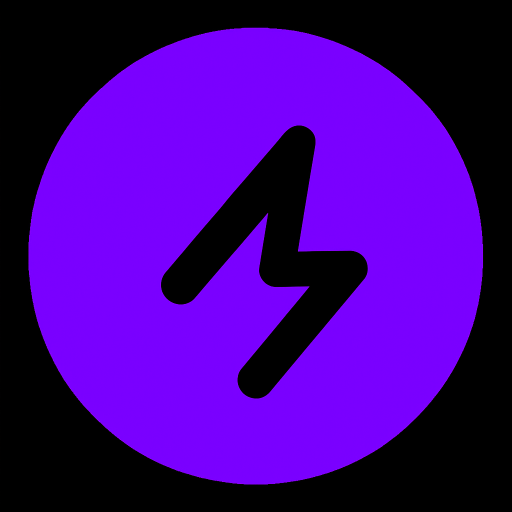
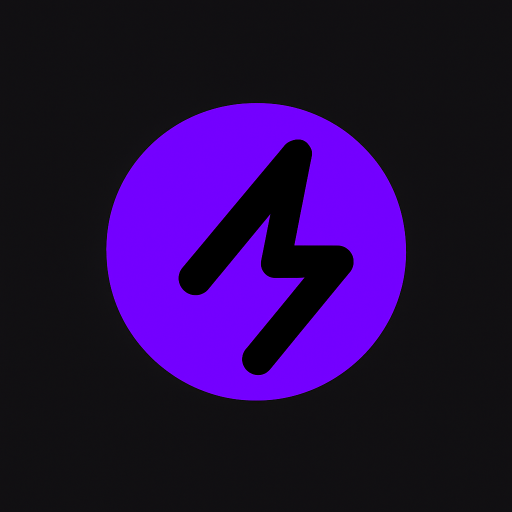
almost done

diff --git a/frontend/src/layout/components/PlaybackControls.tsx b/frontend/src/layout/components/PlaybackControls.tsx
@@ -24,6 +24,7 @@ import {
   DropdownMenuItem,
   DropdownMenuTrigger,
 } from "@/components/ui/dropdown-menu";
+import { motion, AnimatePresence } from "framer-motion";
 
 const formatTime = (seconds: number) => {
   if (!seconds || isNaN(seconds)) return "0:00";
@@ -187,8 +188,19 @@ export const PlaybackControls = () => {
         flex flex-col sm:flex-row sm:justify-between items-center
         max-w-[1800px] mx-auto w-full`}
     >
+
+      <AnimatePresence initial={false}>
       {/* MOBILE MINI PLAYER */}
       {!isExpanded && currentSong && (
+        <motion.div
+        key="mini"
+        initial={{ opacity: 0, y: 40 }}
+        animate={{ opacity: 1, y: 0 }}
+        exit={{ opacity: 0, y: 40 }}
+        transition={{ duration: 0.3 }}
+        className="relative flex sm:hidden items-center gap-3 w-full h-16 cursor-pointer rounded-md overflow-hidden"
+        onClick={toggleExpand}
+      >
         <div
           className="relative flex sm:hidden items-center gap-3 w-full h-16 cursor-pointer rounded-md overflow-hidden"
           onClick={toggleExpand}
@@ -224,14 +236,14 @@ export const PlaybackControls = () => {
                   e.stopPropagation();
                   playPrevious();
                 }}
-                className="text-zinc-300 hover:text-white"
+                className="text-zinc-300 lg:hover:text-white"
               >
                 <SkipBack className="h-5 w-5" />
               </Button>
 
               <Button
                 size="icon"
-                className="bg-white hover:bg-white/80 text-black rounded-full h-9 w-9"
+                className="bg-white lg:hover:bg-white/80 text-black rounded-full h-9 w-9"
                 onClick={(e) => {
                   e.stopPropagation();
                   togglePlay();
@@ -247,17 +259,26 @@ export const PlaybackControls = () => {
                   e.stopPropagation();
                   playNext();
                 }}
-                className="text-zinc-300 hover:text-white"
+                className="text-zinc-300 lg:hover:text-white"
               >
                 <SkipForward className="h-5 w-5" />
               </Button>
             </div>
           </div>
         </div>
+        </motion.div>
       )}
 
       {/* MOBILE EXPANDED VIEW */}
       {isExpanded && currentSong && (
+        <motion.div
+        key="expanded"
+        initial={{ opacity: 0, y: "100%" }}
+        animate={{ opacity: 1, y: 0 }}
+        exit={{ opacity: 0, y: "100%" }}
+        transition={{ duration: 0.40, ease: "easeInOut" }}
+        className="sm:hidden relative flex flex-col h-screen w-full overflow-hidden pt-safe"
+      >
         <div className="sm:hidden relative flex flex-col h-full w-full overflow-hidden">
           <div
             className="absolute inset-0 bg-cover bg-center blur-2xl opacity-30"
@@ -266,11 +287,16 @@ export const PlaybackControls = () => {
           <div className="absolute inset-0 bg-gradient-to-t from-black via-zinc-900/80 to-transparent" />
 
           <div className="relative flex flex-col h-full px-6 py-4 text-white">
-            <div className="flex justify-start">
-              <Button size="icon" variant="ghost" className="text-zinc-300 hover:text-white" onClick={toggleExpand}>
-                <ChevronDown className="h-7 w-7 mt-1" />
-              </Button>
-            </div>
+              <div className="flex justify-start">
+                <Button
+                  size="icon"
+                  variant="ghost"
+                  className="text-zinc-300 sm:hover:text-white"
+                  onClick={toggleExpand}
+                >
+                  <ChevronDown className="h-7 w-7 mt-1" />
+                </Button>
+              </div>
 
             <div className="flex justify-center mt-12">
               <img
@@ -297,15 +323,15 @@ export const PlaybackControls = () => {
             </div>
 
             <div className="mt-9 flex items-center justify-center gap-12">
-              <Button size="icon" variant="ghost" className="text-zinc-400 hover:text-white" onClick={playPrevious}>
+              <Button size="icon" variant="ghost" className="text-zinc-400 lg:hover:text-white" onClick={playPrevious}>
                 <SkipBack className="h-9 w-9" />
               </Button>
 
-              <Button size="icon" className="bg-white hover:bg-white/80 text-black rounded-full h-16 w-16 shadow-lg" onClick={togglePlay}>
+              <Button size="icon" className="bg-white lg:hover:bg-white/80 text-black rounded-full h-16 w-16 shadow-lg" onClick={togglePlay}>
                 {isPlaying ? <Pause className="h-9 w-9" /> : <Play className="h-9 w-9" />}
               </Button>
 
-              <Button size="icon" variant="ghost" className="text-zinc-400 hover:text-white" onClick={playNext}>
+              <Button size="icon" variant="ghost" className="text-zinc-400 lg:hover:text-white" onClick={playNext}>
                 <SkipForward className="h-9 w-9" />
               </Button>
             </div>
@@ -326,7 +352,7 @@ export const PlaybackControls = () => {
             </div>
 
             <div className="mt-8 flex items-center justify-center gap-2">
-              <Button size="icon" variant="ghost" className="hover:text-white text-zinc-400">
+              <Button size="icon" variant="ghost" className="lg:hover:text-white text-zinc-400">
                 <Volume1 className="h-6 w-6" />
               </Button>
 
@@ -334,7 +360,9 @@ export const PlaybackControls = () => {
             </div>
           </div>
         </div>
+        </motion.div>
       )}
+      </AnimatePresence>
 
       {/* DESKTOP SONG INFO + LIKE */}
       <div className="hidden sm:flex items-center gap-4 min-w-[180px] w-[30%] pl-4">

diff --git a/frontend/src/layout/components/AudioPlayer.tsx b/frontend/src/layout/components/AudioPlayer.tsx
@@ -22,18 +22,17 @@ const AudioPlayer = () => {
     }
   }, [volume]);
 
-  // load new song
+  // load new song + setup media session
   useEffect(() => {
     if (!audioRef.current || !currentSong) return;
     const audio = audioRef.current;
 
-    // only reset src if it's a new song
     if (audio.src !== currentSong.audioUrl) {
       audio.src = currentSong.audioUrl;
       audio.currentTime = 0;
     }
 
-    // ✅ Media Session API for lockscreen/notification
+    // ✅ Media Session API
     if ("mediaSession" in navigator && currentSong) {
       navigator.mediaSession.metadata = new MediaMetadata({
         title: currentSong.title,
@@ -60,13 +59,18 @@ const AudioPlayer = () => {
     if (isPlaying) audio.play().catch(() => {});
   }, [currentSong, isPlaying, playNext, playPrevious, setIsPlaying]);
 
-  // play/pause state sync
+  // keep play/pause in sync
   useEffect(() => {
     const audio = audioRef.current;
     if (!audio) return;
 
     if (isPlaying) audio.play().catch(() => {});
     else audio.pause();
+
+    // ✅ Update playbackState for system controls
+    if ("mediaSession" in navigator) {
+      navigator.mediaSession.playbackState = isPlaying ? "playing" : "paused";
+    }
   }, [isPlaying]);
 
   // attach listeners once
@@ -74,7 +78,23 @@ const AudioPlayer = () => {
     const audio = audioRef.current;
     if (!audio) return;
 
-    const handleTime = () => setCurrentTime(audio.currentTime);
+    const handleTime = () => {
+      setCurrentTime(audio.currentTime);
+
+      // ✅ Update positionState so slider works
+      if ("mediaSession" in navigator && "setPositionState" in navigator.mediaSession) {
+        try {
+          navigator.mediaSession.setPositionState({
+            duration: audio.duration || 0,
+            position: audio.currentTime,
+            playbackRate: audio.playbackRate,
+          });
+        } catch (e) {
+          // some browsers may throw if not supported
+        }
+      }
+    };
+
     const handleDuration = () => setDuration(audio.duration);
     const handleEnded = () => playNext();
     const handlePlay = () => setIsPlaying(true);

diff --git a/frontend/src/layout/MainLayout.tsx b/frontend/src/layout/MainLayout.tsx
@@ -24,7 +24,7 @@ const MainLayout = () => {
       setShowHint(true);
       localStorage.setItem("swipeHintShown", "true");
 
-      setTimeout(() => setShowHint(false), 2500); // auto-hide after 2.5s
+      setTimeout(() => setShowHint(false), 5500); // auto-hide after 2.5s
     }
   }, [isMobile]);
 
@@ -38,9 +38,9 @@ const MainLayout = () => {
 
         {/* ✅ Left Sidebar */}
         <ResizablePanel
-          defaultSize={isMobile ? 0 : 20}
-          minSize={isMobile ? 0 : 12}
-          maxSize={28}
+          defaultSize={isMobile ? 20 : 20}
+          minSize={isMobile ? 0 : 0}
+          maxSize={isMobile ? 20 : 25}
           collapsible
         >
           <LeftSidebar />
@@ -76,9 +76,9 @@ const MainLayout = () => {
             animate={{ opacity: 1, x: 0 }}
             exit={{ opacity: 0, x: -30 }}
             transition={{ duration: 0.5 }}
-            className="absolute top-1/2 left-2 -translate-y-1/2 bg-black text-white px-3 py-1 rounded-lg text-sm shadow-lg"
+            className="absolute top-1/2 left-10 -translate-y-1/2 bg-black text-white px-3 py-1 rounded-lg text-sm shadow-lg"
           >
-            → Swipe
+            ← Drag to resize the sidebar
           </motion.div>
         )}
       </AnimatePresence>

diff --git a/frontend/index.html b/frontend/index.html
@@ -12,7 +12,7 @@
     <link rel="manifest" href="/manifest.json" />
 
     <!-- Theme color for address bar -->
-    <meta name="theme-color" content="#000000" />
+    <meta name="theme-color" content="#1C1C1C" />
 
     <!-- Apple iOS support -->
     <link rel="apple-touch-icon" href="/spotify.png" />
